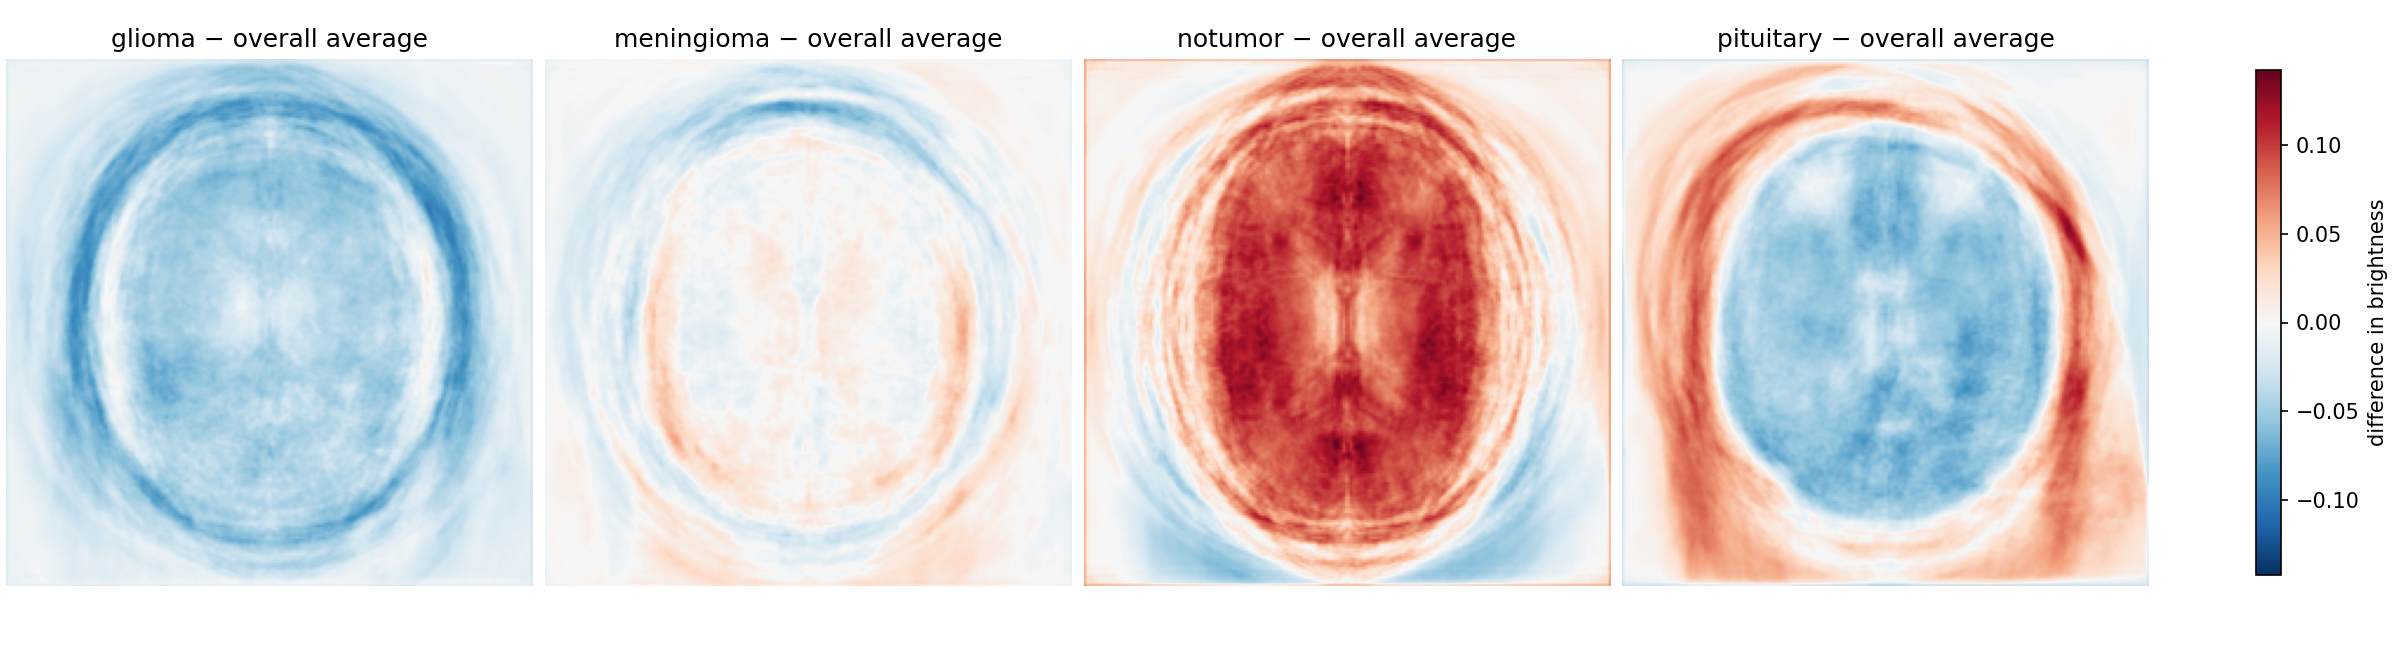
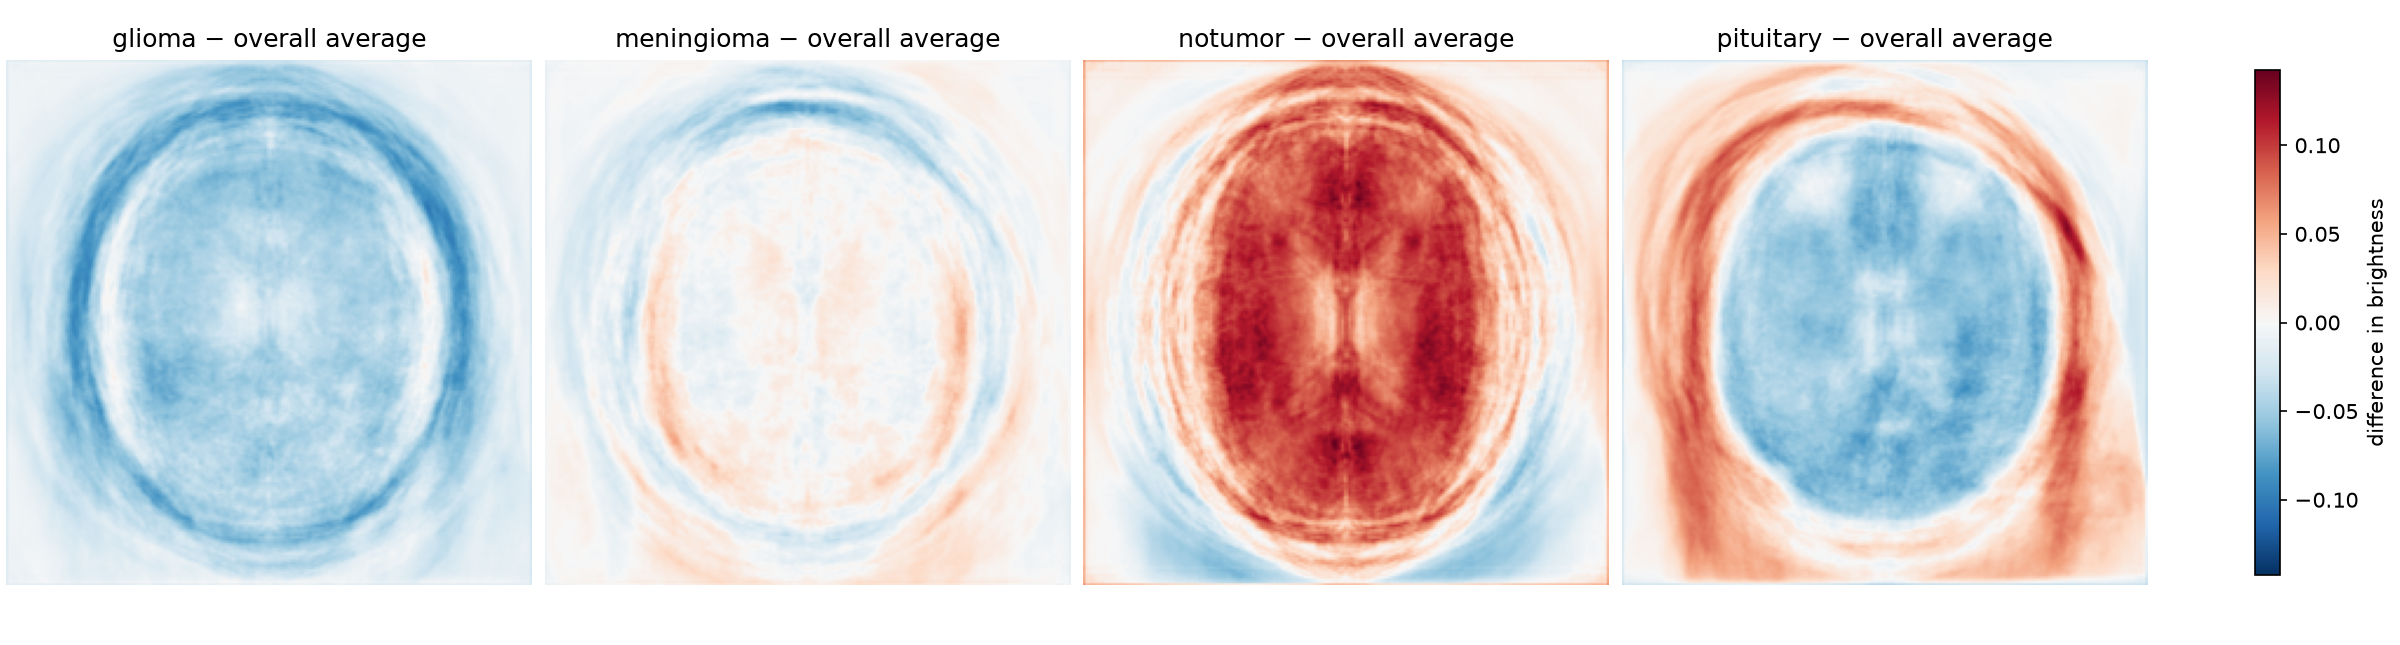
Transfer Learning

diff --git a/transfer_learning/transfer_learning.py b/transfer_learning/transfer_learning.py
@@ -1,0 +1,135 @@
+import torch.optim.adam
+from torchvision import models, transforms
+import torch.nn as nn
+import torch
+from tt.transfer_learning_preprocessing import get_transfer_loaders
+from sklearn.metrics import (accuracy_score, recall_score, f1_score, 
+                             precision_score, confusion_matrix, 
+                             classification_report
+                             )
+
+
+def main():
+    # load pretrained ResNet18
+    model = models.resnet18(weights=models.ResNet18_Weights.DEFAULT)
+
+    # freeze pretrained parameter, so that the pre-trained parameters
+    # are not updated during training, we use the ReseNet18 already trained parameters
+    for param in model.parameters():
+        param.requires_grad = False
+
+
+    model.fc = nn.Linear(model.fc.in_features, 4) # new layer w. random weights/biases
+
+    # 3 loaders that have been preprocessed for ResNet18
+    train_loader, val_loader, test_loader, classes = get_transfer_loaders()
+
+    # retrieve first batch
+    images, labels = next(iter(train_loader))
+
+    print(images.shape)
+    print(labels.shape)
+
+    # keep the frozen feature extraction in evaluation mode
+    model.eval()
+
+    # without tracking gradients, just checking predictions
+    with torch.no_grad():
+        outputs = model(images)
+
+    # convert logits into probabilites, then predict class w. highest probability
+    probabilities = torch.softmax(outputs, dim=1)
+    predictions = outputs.argmax(dim=1)
+
+    criterion = nn.CrossEntropyLoss()
+
+    optimser = torch.optim.Adam(
+        model.fc.parameters(),
+        lr=0.001
+    )
+
+    def validate (model, val_loader, criterion):
+
+        model.eval()
+
+        total_loss = 0.0
+        all_predictions = []
+        all_labels = []
+
+        with torch.no_grad():
+
+            for images, labels in val_loader:
+
+                outputs = model(images)
+                loss = criterion(outputs, labels)
+                total_loss += loss * images.size(0)
+                predictions = outputs.argmax(dim=1)
+
+                all_predictions.extend(predictions.cpu().tolist())
+                all_labels.extend(labels.cpu().tolist())
+
+        avg_loss = total_loss / len(val_loader.dataset)
+        accuracy = accuracy_score(all_labels, all_predictions)
+        recall = recall_score(
+            all_labels, all_predictions, 
+            average="macro", zero_division=0
+        )
+        f1 = f1_score(
+            all_labels, all_predictions,
+            average="macro", zero_division=0
+        )
+    
+        return avg_loss, accuracy, recall, f1
+    
+
+    
+
+    num_epochs = 10
+
+    for epoch in range(num_epochs):
+
+        # training
+        model.eval()
+        model.fc.train()
+
+
+        running_loss = 0.0
+
+        for images, labels in train_loader:
+
+            # reset gradient from previous batch
+            optimser.zero_grad()
+
+            # forward pass
+            outputs = model(images)
+
+            # calculate loss
+            loss = criterion(outputs, labels)
+
+            # backpropagation
+            loss.backward()
+
+            # update the classifier parameters
+            optimser.step()
+
+            running_loss += loss.item() * images.size(0)
+
+        train_loss = running_loss / len(train_loader.dataset)
+
+        val_loss, val_acc, val_recall, val_f1 = validate(model, val_loader, criterion)            
+
+
+        # Display results for this epoch
+        print(
+                f"Epoch {epoch+1}/{num_epochs} | "
+                f"Train loss: {train_loss:.4f} | "
+                f"Val loss: {val_loss:.4f} | "
+                f"Accuracy: {val_acc:.2%} | "
+                f"Recall: {val_recall:.2%} | "
+                f"F1: {val_f1:.2%}"
+            )
+
+
+
+if __name__ == "__main__":
+    main()

diff --git a/transfer_learning/transfer_learning_preprocessing.py b/transfer_learning/transfer_learning_preprocessing.py
@@ -1,0 +1,106 @@
+from torchvision import transforms
+import torch.nn as nn
+from pathlib import Path
+from sklearn.model_selection import train_test_split
+from torch.utils.data import DataLoader, Subset
+from torchvision import datasets
+
+transfer_transforms = transforms.Compose([
+    transforms.Grayscale(num_output_channels=3),
+    transforms.Resize((224, 224)),
+    transforms.ToTensor(),
+    transforms.Normalize(mean= [0.485, 0.456, 0.406], 
+                         std=[0.229, 0.224, 0.225]) #based on ResNet18 pretrained on RGB images (Red, Green, Blue)
+])
+
+IMG_SIZE = 224
+
+# Training: preprocessing + augmentation
+train_transforms = transforms.Compose([
+    transforms.Grayscale(num_output_channels=3),
+    transforms.Resize((IMG_SIZE,IMG_SIZE)),
+    transforms.RandomHorizontalFlip(p=0.5),
+    transforms.RandomRotation(degrees=10),
+    transforms.ColorJitter(brightness=0.1, contrast=0.1),
+    transforms.ToTensor(),
+    transforms.Normalize(
+        mean=[0.485, 0.456, 0.406],
+        std=[0.229, 0.224, 0.225]
+    )
+])
+
+# Validation and testing: no random augmentation
+eval_transforms = transforms.Compose([
+    transforms.Grayscale(num_output_channels=3),
+    transforms.Resize((IMG_SIZE, IMG_SIZE)),
+    transforms.ToTensor(),
+    transforms.Normalize(
+        mean=[0.485, 0.456, 0.406],
+        std=[0.229, 0.224, 0.225]
+    )
+])
+
+VAL_FRACTION = 0.15
+SEED = 42
+
+DATA_DIR = Path(__file__).resolve().parent.parent / "dataset"
+
+def get_transfer_loaders(batch_size=32, num_workers=2):
+
+    # Load the training images twice w. different transformations
+    train_full = datasets.ImageFolder(
+        DATA_DIR / "Training",
+        transform=train_transforms
+    )
+
+    train_full_eval = datasets.ImageFolder(
+        DATA_DIR / "Training",
+        transform=eval_transforms
+    )
+
+    # Load test images
+    test_set = datasets.ImageFolder(
+        DATA_DIR / "Testing",
+        transform=eval_transforms
+    )
+
+    # make sure both datasets have same image ordering
+    assert train_full.samples == train_full_eval.samples
+
+    # Create same train/validation split as CNN
+    indices = list(range(len(train_full)))
+
+    train_idx, val_idx = train_test_split(
+        indices,
+        test_size=VAL_FRACTION,
+        stratify=train_full.targets,
+        random_state=SEED
+    )
+
+    # Create subsets to train (on augmented photos) and test (on non-augmented photos)
+    train_set = Subset(train_full, train_idx)
+    val_set = Subset(train_full_eval, val_idx)
+
+    # Create Dataloaders
+    train_loader = DataLoader(
+        train_set,
+        batch_size=batch_size,
+        shuffle=True,
+        num_workers=num_workers
+    )
+
+    val_loader = DataLoader(
+        val_set,
+        batch_size=batch_size,
+        shuffle=False,
+        num_workers=num_workers
+    )
+
+    test_loader = DataLoader(
+        test_set,
+        batch_size=batch_size,
+        shuffle=False,
+        num_workers=num_workers
+    )
+
+    return train_loader, val_loader, test_loader, train_full.classes
